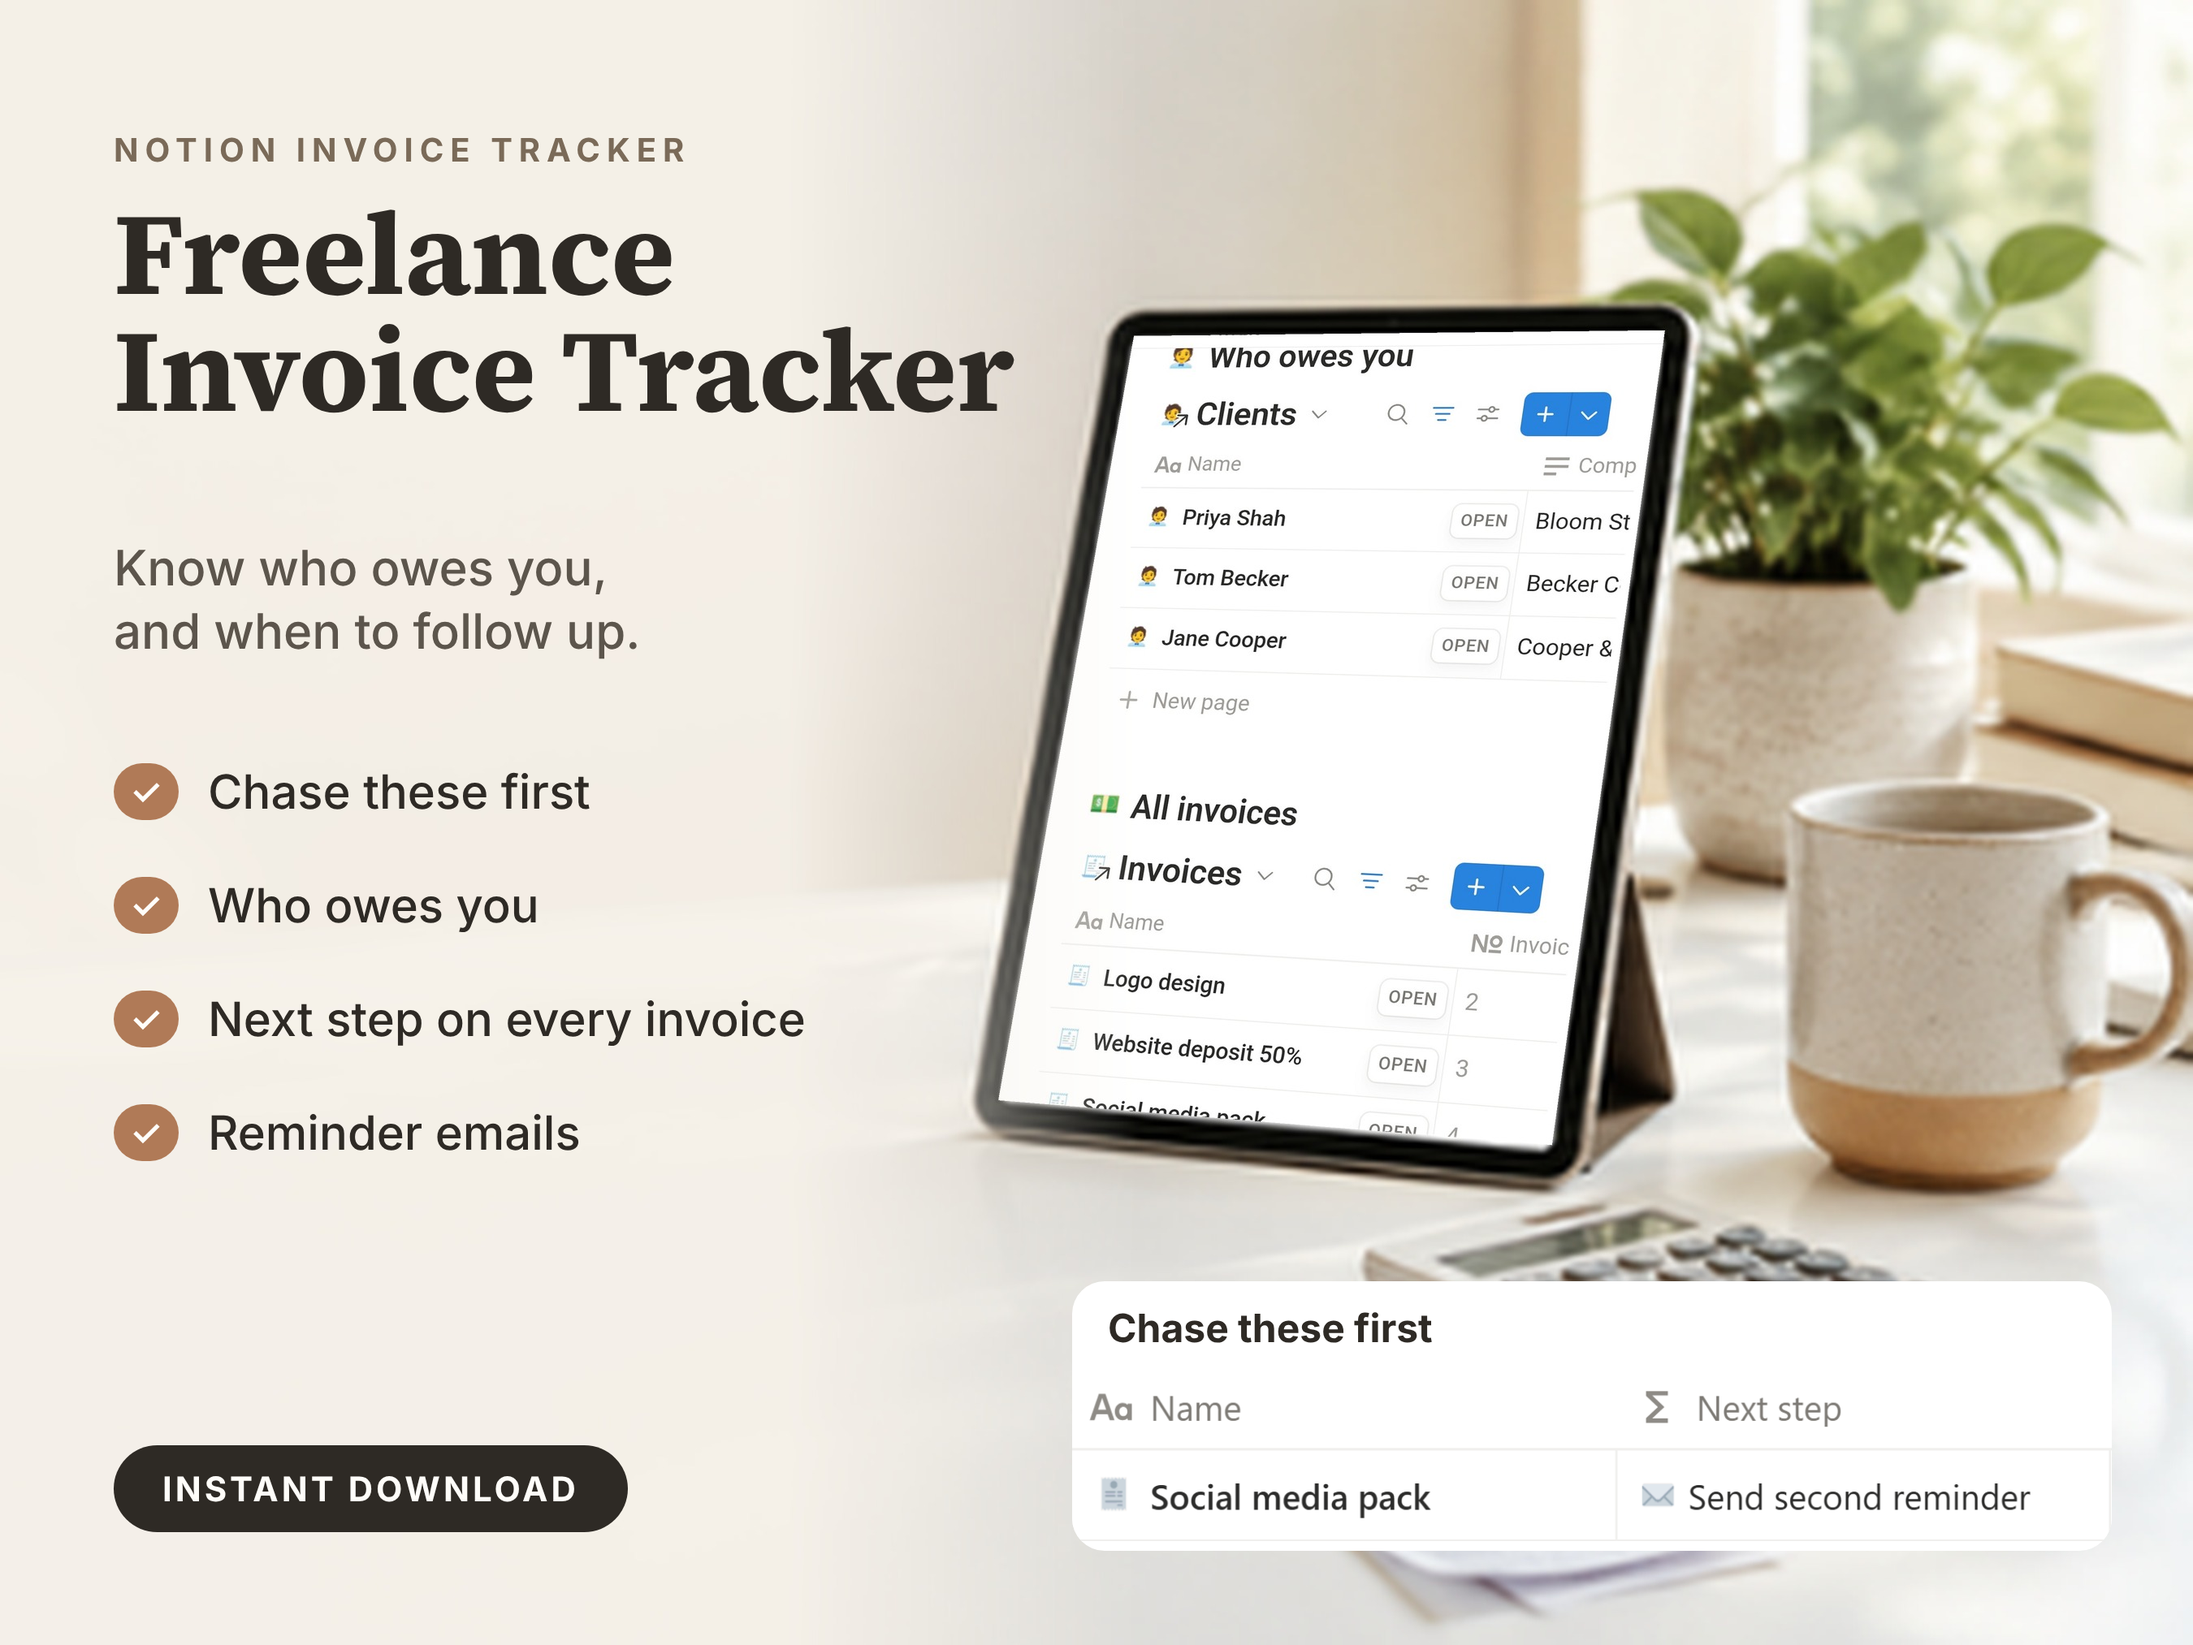
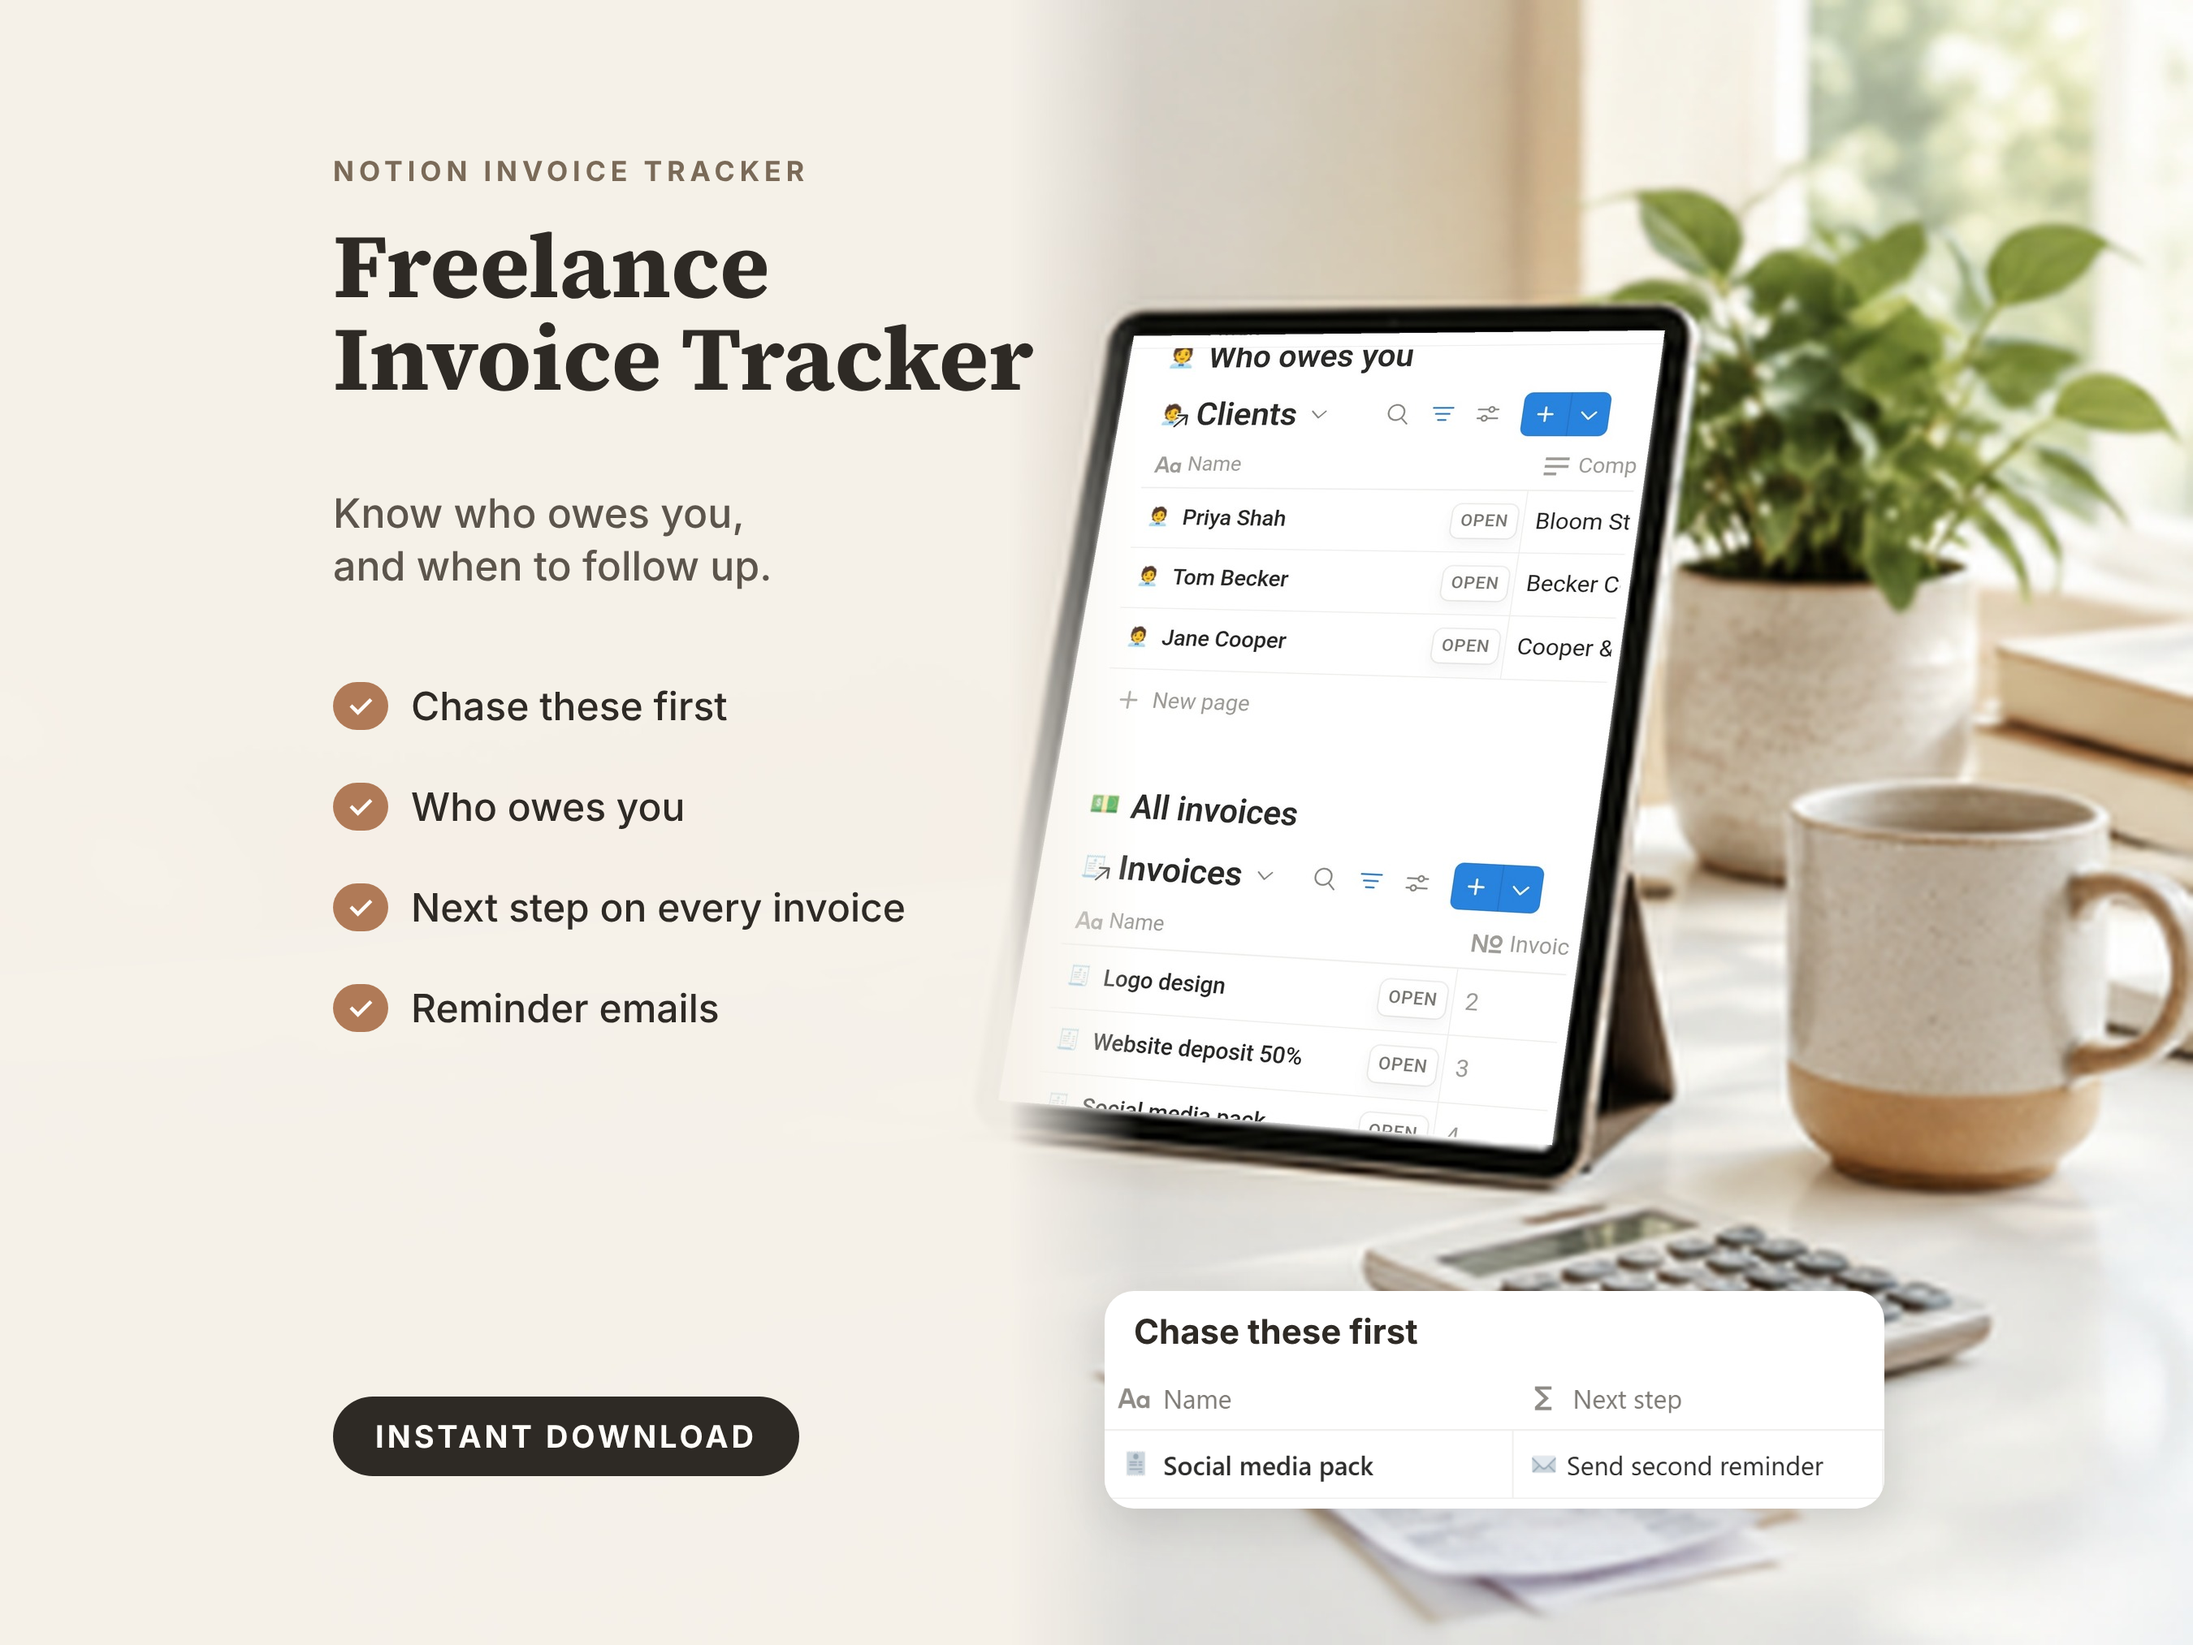
Etsy main images: keep everything inside the square thumbnail
Claude-Session: https://claude.ai/code/session_01SESvdWYowsCKTnCuHXDcbL

diff --git a/generator/v3/build_listing.py b/generator/v3/build_listing.py
@@ -133,7 +133,7 @@ def main_bg(p, out):
     base = (40, 28, 20) if p.get('dark') else (246, 241, 233)
     arr[..., :3] = base
     for x in range(W * 2):
-        t = x / (W * 2); a = 0.93 if t < 0.36 else max(0.0, 0.93 * (1 - (t - 0.36) / 0.16))
+        t = x / (W * 2); a = 0.97 if t < 0.46 else max(0.0, 0.97 * (1 - (t - 0.46) / 0.06))
         arr[:, x, 3] = int(255 * a * (0.78 if p.get('dark') else 1))
     bg.alpha_composite(Image.fromarray(arr))
     bg.convert('RGB').save(out, quality=92)
@@ -160,18 +160,21 @@ def build(pk, base_url):
     d = p.get('dark'); fg = PAP if d else INK; sub = '#F1E7DC' if d else MUT
     # 1. main
     main = f'{pk}-1-main.jpg'; main_bg(p, os.path.join(OUT, pk, main))
-    inner = (T(70, 80, 600, p['kicker'], 20, f'font-weight:700;letter-spacing:4px;color:{"#E8D6C3" if d else "#7A6A58"}')
-             + T(70, 120, 640, p['name'].replace(' ', '<br>', 1), 72 if len(p['name']) > 18 else 84, f'line-height:1.0;white-space:nowrap;color:{fg};{SER}')
-             + T(70, 330, 600, p['sub'], 30, f'line-height:1.3;color:{sub}'))
+    # everything inside the centre square (x 169-1181) so the Etsy square thumbnail keeps it all
+    X = 205
+    inner = (T(X, 95, 560, p['kicker'], 17, f'font-weight:700;letter-spacing:3px;color:{"#E8D6C3" if d else "#7A6A58"}')
+             + T(X, 135, 470, p['name'].replace(' ', '<br>', 1), 56 if len(p['name']) > 18 else 64, f'line-height:1.02;white-space:nowrap;color:{fg};{SER}')
+             + T(X, 300, 430, p['sub'], 25, f'line-height:1.3;color:{sub}'))
     for i, f in enumerate(p['features']):
-        inner += (f'<p style="position:absolute;left:70px;top:{470 + i * 70}px;width:40px;margin:0;padding:4px 0;text-align:center;border-radius:999px;'
-                  f'background:{p["accent"]};color:{PAP};font-size:22px;font-weight:700">✓</p>' + T(128, 470 + i * 70, 520, f, 29, f'font-weight:500;color:{fg}'))
+        inner += (f'<p style="position:absolute;left:{X}px;top:{420 + i * 62}px;width:34px;margin:0;padding:3px 0;text-align:center;border-radius:999px;'
+                  f'background:{p["accent"]};color:{PAP};font-size:19px;font-weight:700">✓</p>' + T(X + 48, 420 + i * 62, 380, f, 24, f'font-weight:500;color:{fg}'))
     t0, _, c0 = p['cards'][0]
-    url0, ih0 = B.fit(c0, 640, 230, 'm1'); url0 = url0.replace(B.RAW + 'crops/', base_url + 'crops/')
-    inner += (f'<div style="position:absolute;left:660px;top:{H - ih0 - 120}px;width:640px;height:{ih0 + 62}px;background:#FFFFFF;border-radius:20px;overflow:hidden">'
-              + T(22, 14, 600, t0, 24, f'font-weight:700;color:{INK}')
-              + f'<img src="{url0}" style="position:absolute;left:0;top:56px;width:640px;height:{ih0}px"></div>')
-    inner += T(70, 890, 0, 'INSTANT DOWNLOAD', 21, f'padding:14px 30px;border-radius:999px;background:{PAP if d else INK};color:{INK if d else PAP};font-weight:700;letter-spacing:2px')
+    CW = 480
+    url0, ih0 = B.fit(c0, CW, 230, 'm1'); url0 = url0.replace(B.RAW + 'crops/', base_url + 'crops/')
+    inner += (f'<div style="position:absolute;left:{1160 - CW}px;top:{H - ih0 - 140}px;width:{CW}px;height:{ih0 + 56}px;background:#FFFFFF;border-radius:18px;overflow:hidden;box-shadow:0 10px 30px rgba(0,0,0,.12)">'
+              + T(18, 12, CW - 30, t0, 21, f'font-weight:700;color:{INK}')
+              + f'<img src="{url0}" style="position:absolute;left:0;top:50px;width:{CW}px;height:{ih0}px"></div>')
+    inner += T(X, 860, 0, 'INSTANT DOWNLOAD', 19, f'padding:13px 26px;border-radius:999px;background:{PAP if d else INK};color:{INK if d else PAP};font-weight:700;letter-spacing:2px')
     pages.append(page(f'{pk}-1-main', inner, f'{base_url}{pk}/{main}'))
     # 2-5. features
     for i, (title, desc, crop) in enumerate(p['cards'], 2):
